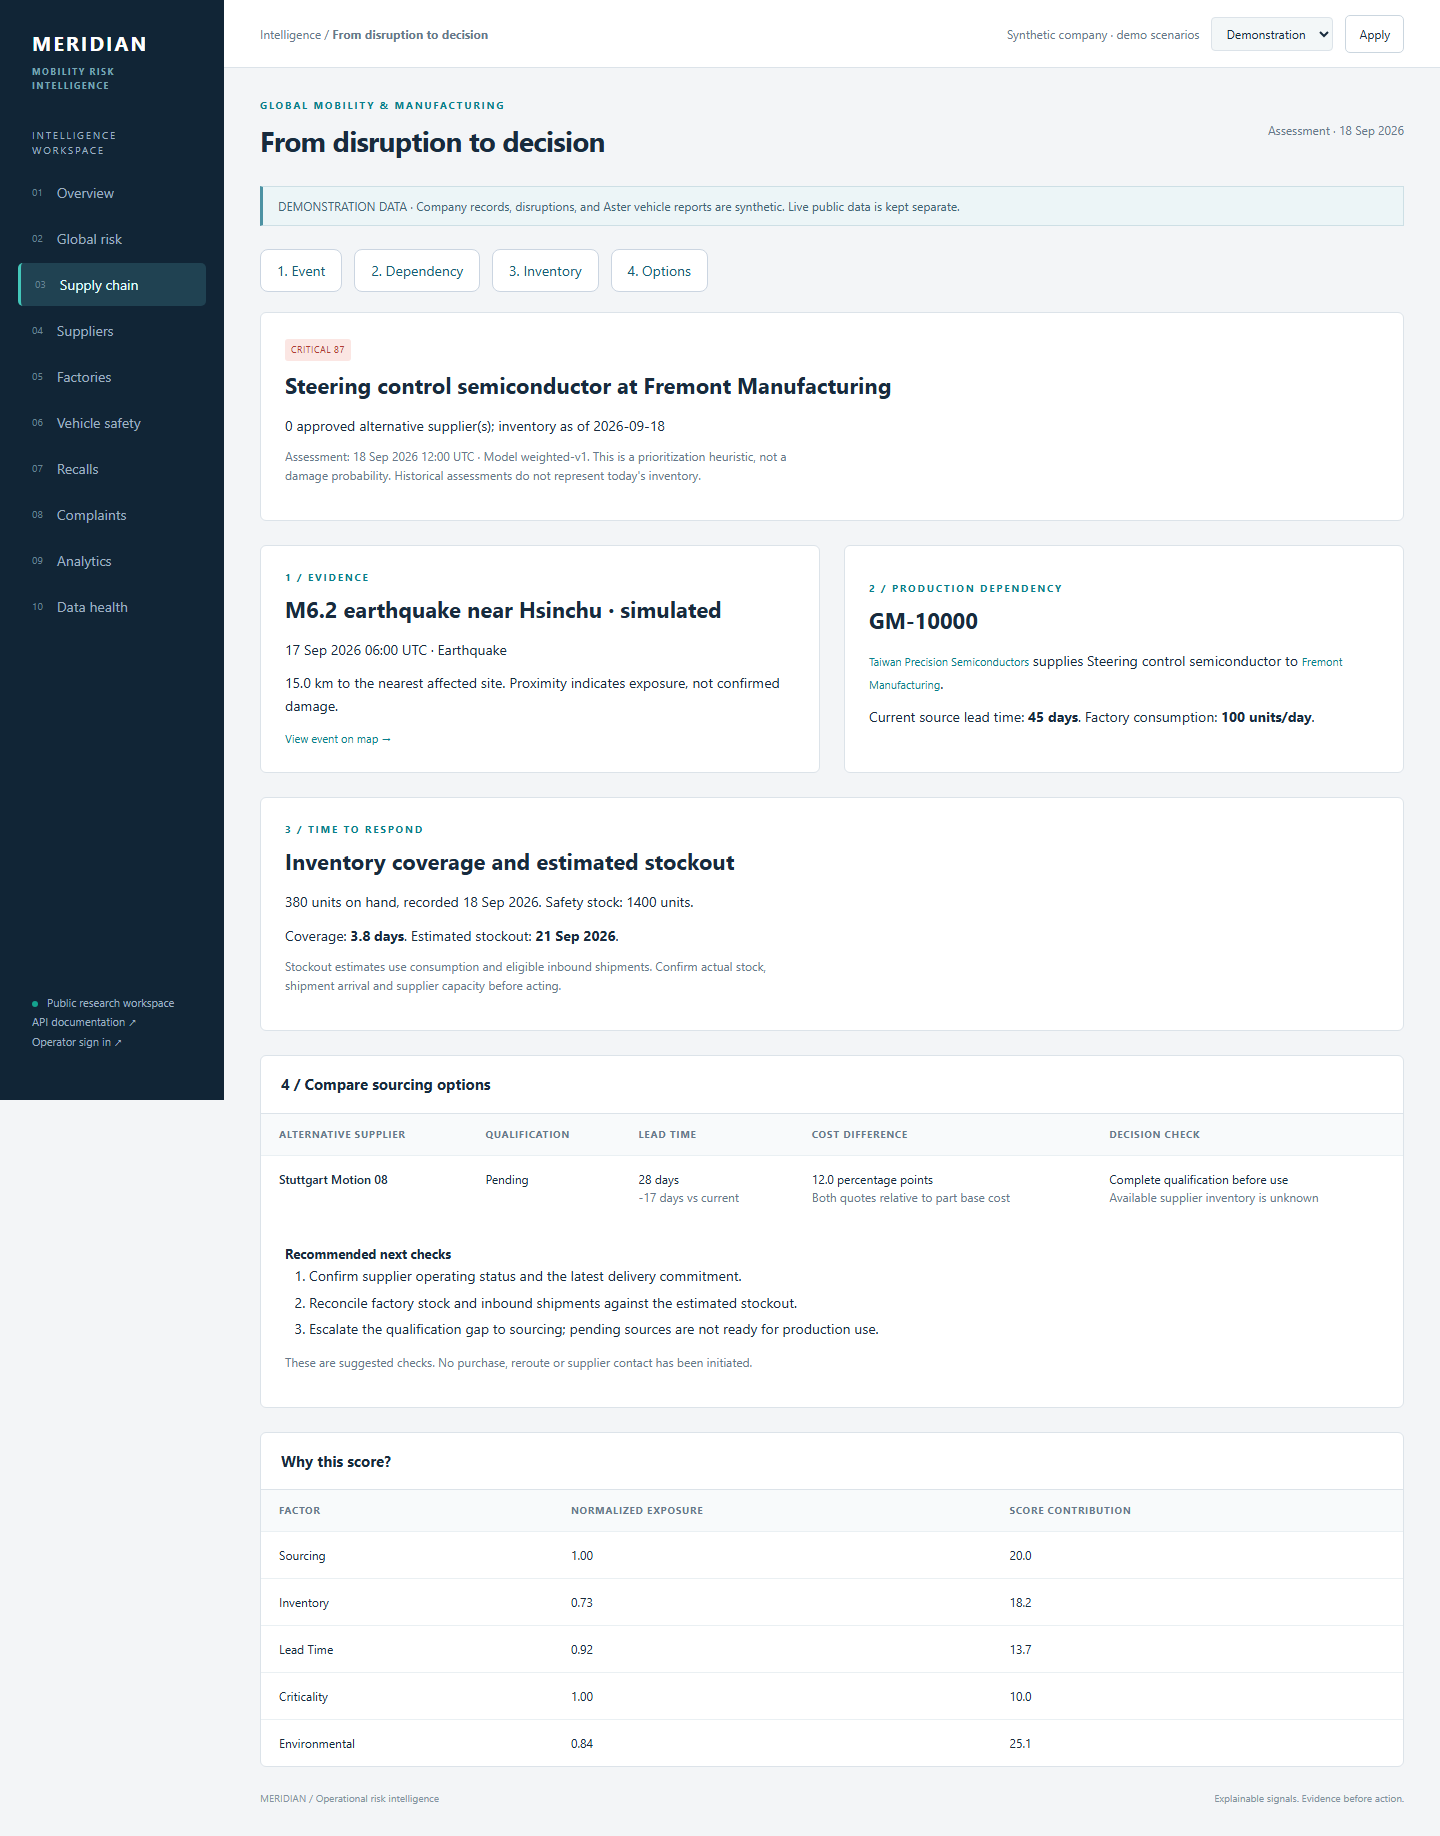
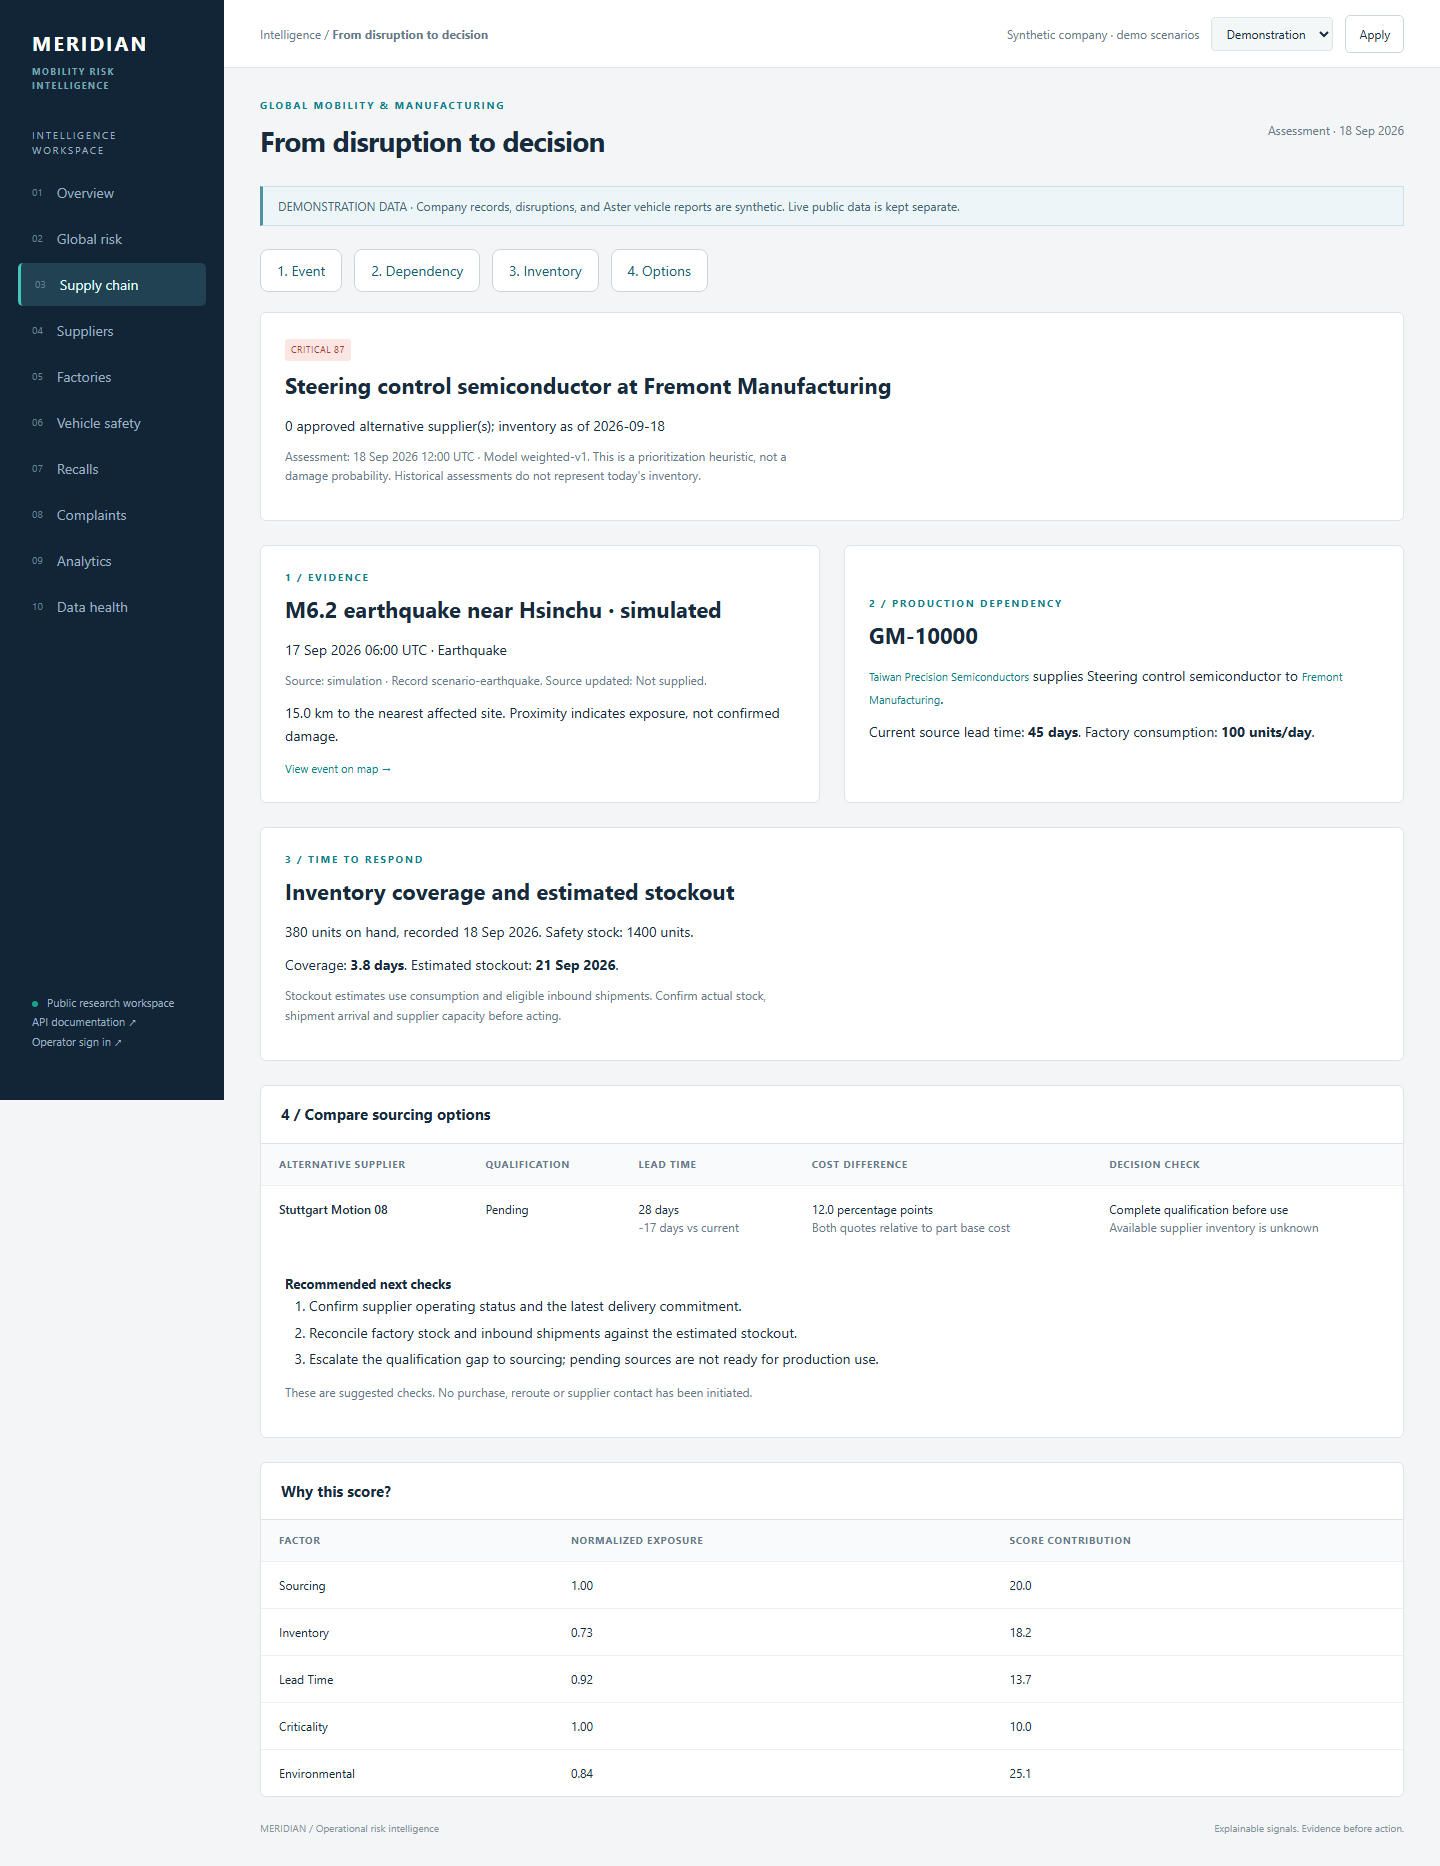
Fix fresh-runner test storage and add vehicle dropdown filters

diff --git a/templates/automotive.html b/templates/automotive.html
@@ -1,25 +1,22 @@
 {% extends "base.html" %}
 {% block content %}
+    {{ vehicle_options|json_script:"vehicle-options" }}
     <section class="panel">
         <form class="filters">
             <input type="hidden" name="mode" value="{{ mode }}">
-            <label>
-                Make<input name="make" value="{{ request.GET.make }}" placeholder="e.g. Aster">
-            </label>
-            <label>
-                Model<input name="model" value="{{ request.GET.model }}" placeholder="e.g. E4">
-            </label>
-            <label>
-                Year<input name="year"
-       type="number"
-       value="{{ request.GET.year }}"
-       style="width:85px">
-            </label>
-            <label>
-                Component<input name="component"
-       value="{{ request.GET.component }}"
-       placeholder="STEERING">
-            </label>
+            {% for filter in filter_options %}
+                <label>{{ filter.label }}
+                    <select name="{{ filter.name }}" data-vehicle-filter="{{ filter.name }}">
+                        <option value="">All {{ filter.label|lower }}s</option>
+                        {% if filter.selected and filter.selected not in filter.values %}
+                            <option value="{{ filter.selected }}" selected>{{ filter.selected }} (not in this dataset)</option>
+                        {% endif %}
+                        {% for value in filter.values %}
+                            <option value="{{ value }}" {% if value == filter.selected %}selected{% endif %}>{{ value }}</option>
+                        {% endfor %}
+                    </select>
+                </label>
+            {% endfor %}
             <label>
                 From<input type="date" name="start" value="{{ request.GET.start }}">
             </label>
@@ -27,6 +24,7 @@
                 Through<input type="date" name="end" value="{{ request.GET.end }}">
             </label>
             <button class="btn btn-primary">Apply filters</button>
+            <a class="btn" href="?mode={{ mode }}">Reset filters</a>
         </form>
     </section>
     <div class="kpis">

diff --git a/static/app.js b/static/app.js
@@ -193,3 +193,29 @@ document.addEventListener('htmx:responseError', event => {
     n.textContent = 'The request failed. Please retry.';
     event.detail.target.prepend(n);
 });
+
+// Dependent vehicle choices; the GET form remains usable without JavaScript.
+document.addEventListener('DOMContentLoaded', () => {
+    const data = document.getElementById('vehicle-options');
+    if (!data) return;
+    const vehicles = JSON.parse(data.textContent);
+    const make = document.querySelector('select[name="make"]');
+    const model = document.querySelector('select[name="model"]');
+    const year = document.querySelector('select[name="year"]');
+    function populate(select, values, label) {
+        const selected = select.value;
+        select.replaceChildren(new Option(label, ''));
+        values.forEach(value => select.add(new Option(value, value)));
+        select.value = values.includes(selected) ? selected : '';
+    }
+    function updateYears() {
+        const rows = vehicles.filter(v => (!make.value || v.make === make.value) && (!model.value || v.model === model.value));
+        populate(year, [...new Set(rows.map(v => String(v.year)))].sort().reverse(), 'All years');
+    }
+    make.addEventListener('change', () => {
+        const rows = vehicles.filter(v => !make.value || v.make === make.value);
+        populate(model, [...new Set(rows.map(v => v.model))].sort(), 'All models');
+        updateYears();
+    });
+    model.addEventListener('change', updateYears);
+});

diff --git a/apps/core/views.py b/apps/core/views.py
@@ -284,6 +284,11 @@ def automotive_filters(request, rows, vehicle_prefix="vehicle__"):
 @require_GET
 def automotive(request, section="vehicle-safety"):
     mode = dataset(request)
+    identities = list(Vehicle.objects.filter(mode=mode).values("make", "model", "year"))
+    component_options = sorted(
+        set(Complaint.objects.filter(mode=mode).values_list("component", flat=True))
+        | set(Recall.objects.filter(mode=mode).values_list("component", flat=True))
+    )
     complaints = automotive_filters(
         request, Complaint.objects.filter(mode=mode).select_related("vehicle")
     )
@@ -345,6 +350,24 @@ def automotive(request, section="vehicle-safety"):
             "anomalies": anomalies,
             "page_obj": Paginator(rows, 25).get_page(request.GET.get("page")),
             "vehicles": Vehicle.objects.filter(mode=mode),
+            "vehicle_options": identities,
+            "filter_options": [
+                {
+                    "name": name,
+                    "label": name.title(),
+                    "values": sorted({str(v[name]) for v in identities}, reverse=name == "year"),
+                    "selected": request.GET.get(name, ""),
+                }
+                for name in ("make", "model", "year")
+            ]
+            + [
+                {
+                    "name": "component",
+                    "label": "Component",
+                    "values": [v for v in component_options if v],
+                    "selected": request.GET.get("component", ""),
+                }
+            ],
         },
     )
 

diff --git a/tests/test_application.py b/tests/test_application.py
@@ -137,3 +137,15 @@ def test_live_empty_state_and_filters(client, demo):
     assert b"Taiwan Precision" not in response.content
     response = client.get("/complaints/?component=BATTERY")
     assert b"No records match" in response.content
+
+
+@pytest.mark.parametrize("route", ["/recalls/", "/complaints/", "/vehicle-safety/"])
+def test_vehicle_dropdowns_preserve_filters_and_mode(client, demo, route):
+    response = client.get(route, {"make": "Aster", "model": "E4", "component": "STEERING"})
+    assert response.status_code == 200
+    assert b'<select name="make"' in response.content
+    assert b'<select name="component"' in response.content
+    assert b'value="Aster" selected' in response.content
+    assert b"Reset filters" in response.content
+    live = client.get(route, {"mode": "live"})
+    assert b'value="Aster"' not in live.content

diff --git a/scripts/browser_check.py b/scripts/browser_check.py
@@ -69,7 +69,10 @@ with sync_playwright() as p:
     assert "Taiwan Precision" in page.locator("#entity-results").inner_text()
     page.goto(base + "/vehicle-safety/", wait_until="networkidle")
     page.screenshot(path=str(output / "vehicle-safety.png"), full_page=True)
-    page.locator('input[name="component"]').fill("BATTERY")
+    page.locator('select[name="make"]').select_option("Aster")
+    page.locator('select[name="model"]').select_option("E4")
+    page.locator('select[name="component"]').select_option("STEERING")
+    page.locator('input[name="start"]').fill("2099-01-01")
     page.locator("button", has_text="Apply filters").click()
     page.wait_for_load_state("networkidle")
     assert page.locator("text=No records match these filters.").count() == 1

diff --git a/docs/hosting.md b/docs/hosting.md
@@ -26,3 +26,23 @@ The application trusts the forwarded HTTPS header only when configured with Rend
 - Open the factory and supplier profiles for supporting detail; inspect the factor contributions behind the score.
 
 For a walkthrough recording, capture this sequence at desktop width, then show the same investigation on mobile. Do not display service dashboards or credentials in the recording.
+
+## Choosing a long-term low-cost host (reviewed 2026-09-19)
+
+Keep Django templates + HTMX. They have no license fee, already render the whole frontend, and avoid an extra frontend deployment. React, Vue, Svelte or Astro are alternatives, but changing the UI framework does not remove PostgreSQL, scheduled ingestion or analytical storage. Vercel supports Django; the main adaptation is backend execution and persistent data, not HTML rendering.
+
+- **Existing Raspberry Pi or spare PC:** can run the whole Docker stack, including PostgreSQL and persistent analytics volumes. Recommended starting target: a Pi 4/5 with 4 GB or more, 64-bit Linux, SSD storage and reliable power. This is an engineering recommendation, not a measured hardware minimum; ARM builds and memory usage remain unverified. Hardware, electricity, internet and backups are still your costs. A spare computer you already own may be better value than buying a Pi.
+- **Public access from home:** Cloudflare Tunnel makes outbound connections, avoiding router port forwarding. A stable published application needs a domain on Cloudflare; registration may cost money. Quick Tunnels provide temporary random URLs for demonstrations. Configure production Django settings, an explicit hostname and trusted HTTPS proxy before exposing the app; do not publish the development server or PostgreSQL port.
+- **Oracle Always Free:** a VM is a good architectural fit because the application, database and files can stay together. Confirm the current Always Free allocation in your account (the current documentation describes 2 OCPUs / 12 GB total for A1 Free Tier). Capacity can be unavailable and idle instances may be reclaimed. Use backups and avoid provisioning trial-only resources by mistake. Signup may require card verification.
+- **AWS:** useful for learning AWS, but not the best answer to indefinite free VM hosting. New customers' Free Plan expires after six months or when credits are exhausted, whichever comes first. Some services have recurring free allowances, but that does not make this whole Django/PostgreSQL deployment permanently free.
+- **Vercel static portfolio edition:** an optional separate, read-only snapshot could publish precomputed JSON and pages and run filters/charts in the browser. This can remove the online database/server requirement, but refreshes require generating and redeploying a snapshot. Live ingestion, Django admin, server-side APIs and warehouse queries would remain in the full application. Do not rewrite the working app simply to host a snapshot.
+
+Recommendation: use existing hardware if available and home uptime is acceptable; otherwise try an Oracle Always Free VM for the complete platform. Keep Render + Neon as the simpler managed demo alternative. No deployment or free-tier availability is guaranteed by these recipes.
+
+Sources:
+- https://aws.amazon.com/free/terms/
+- https://docs.oracle.com/iaas/Content/FreeTier/freetier.htm
+- https://docs.oracle.com/en-us/iaas/Content/FreeTier/freetier_topic-Always_Free_Resources.htm
+- https://vercel.com/docs/functions/runtimes/python
+- https://developers.cloudflare.com/tunnel/get-started/
+- https://www.raspberrypi.com/products/raspberry-pi-5/
